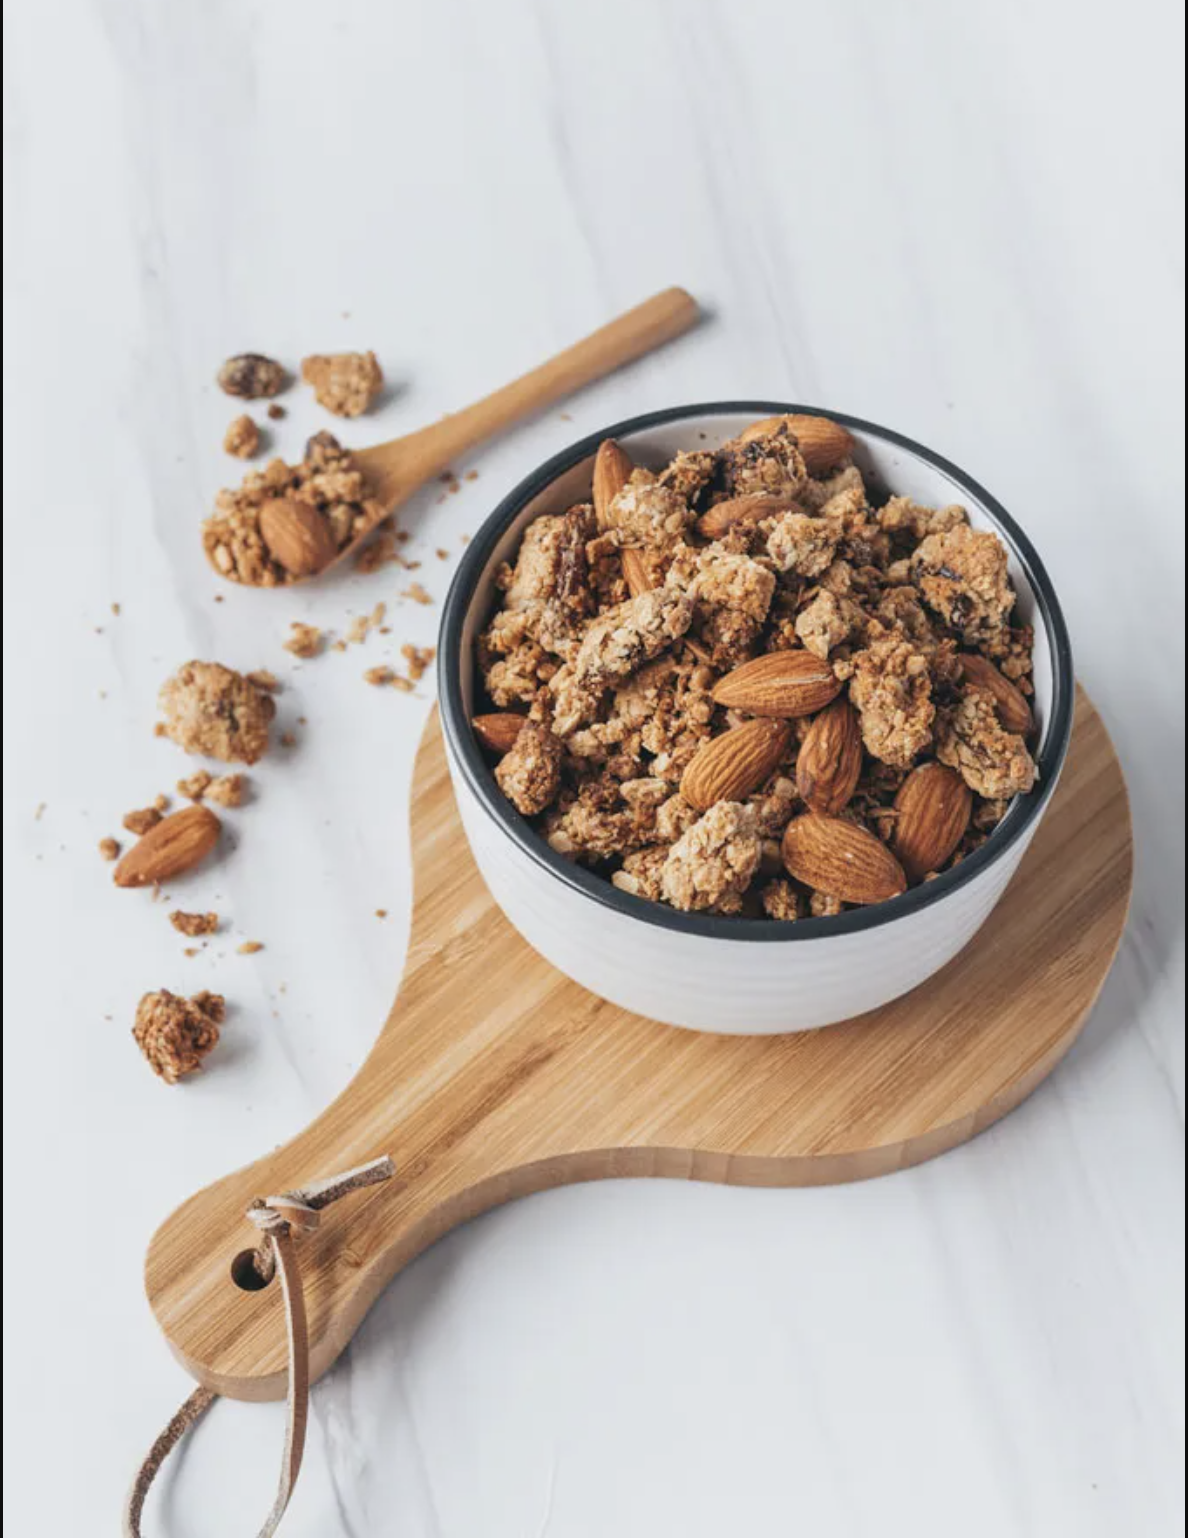
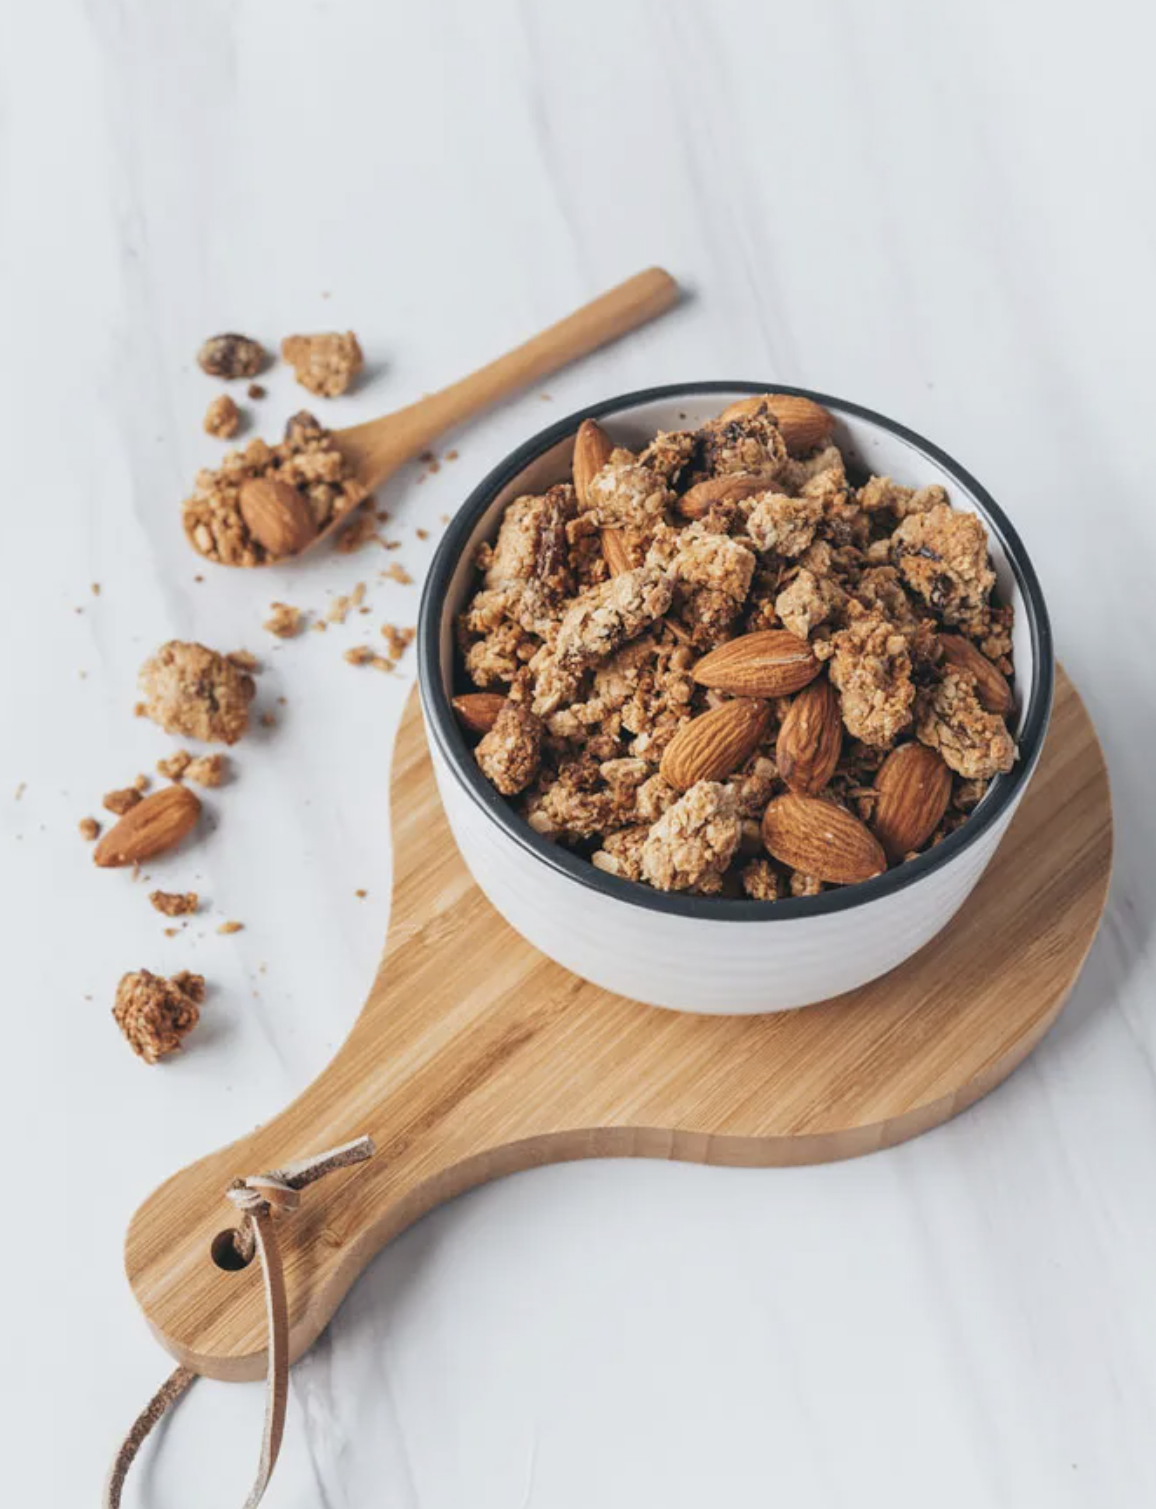
Retouches des images

diff --git a/recette.html b/recette.html
@@ -3,6 +3,7 @@
 <head>
 	<meta charset="utf-8">
 	<meta name="viewport" content="width=device-width, initial-scale=1">
+	<link rel="stylesheet" href="style.css"> 
 	<title></title>
 </head>
 <body>
@@ -20,12 +21,12 @@
 		   </div>
 	</section>
 
-	<section  id="recette-liste">
+	<section  >
 
 		<h1>Découvrez nos recettes !</h1>
 
 
-		<div>
+		<div id="recette-liste">
 			<img src="img/mais.png" width="300px">
 			<img src="img/cuillere.png" width="300px">
 			<img src="img/noix.png" width="300px">
@@ -36,15 +37,36 @@
 	
 	</section>
 
-	<section  id="recetette-details">
+	<section  id="recette-details">
 
-		<div>
+		<div id="recette1">
+
+		<div class="Titre-1">
+			
 			<h1>Recette 1</h1>
-			<img src="img/mais.png" width="500px">
-			<p>Lorem ipsum dolor sit amet, consectetur adipiscing elit. Curabitur placerat pulvinar turpis dignissim tincidunt. Suspendisse ut finibus leo, quis finibus diam. In vitae nisl quis ex sodales finibus. Duis scelerisque tempor porta. Quisque convallis id orci sit amet malesuada. Integer ac purus sed nulla hendrerit mollis id vel lacus. Fusce malesuada efficitur nunc, eu volutpat mi. Aenean id fringilla ex.
+		
+		</div>
+			
+		<div class="box-image">
 
-				Nunc tincidunt eget ex eu sodales. Ut placerat dolor sem, sit amet convallis libero porttitor at. Proin consectetur mollis purus, et molestie leo pharetra eget. Nulla condimentum eget sem vel tristique. Morbi faucibus nibh in pretium cursus. Orci varius natoque penatibus et magnis dis parturient montes, nascetur ridiculus mus. Nunc blandit semper elit, nec suscipit neque gravida et. Aenean tellus ipsum, semper ac enim in, efficitur venenatis libero.
-			</p>
+			<div class="image">
+
+				<img src="img/mais.png" width="400px">
+
+			</div>
+
+			<div class="texte">
+
+				<p>Lorem ipsum dolor sit amet, consectetur adipiscing elit. Curabitur placerat pulvinar turpis dignissim tincidunt. Suspendisse ut finibus leo, quis finibus diam. In vitae nisl quis ex sodales finibus. Duis scelerisque tempor porta. Quisque convallis id orci sit amet malesuada. Integer ac purus sed nulla hendrerit mollis id vel lacus. Fusce malesuada efficitur nunc, eu volutpat mi. Aenean id fringilla ex.
+
+					Nunc tincidunt eget ex eu sodales. Ut placerat dolor sem, sit amet convallis libero porttitor at. Proin consectetur mollis purus, et molestie leo pharetra eget. Nulla condimentum eget sem vel tristique. Morbi faucibus nibh in pretium cursus. Orci varius natoque penatibus et magnis dis parturient montes, nascetur ridiculus mus. Nunc blandit semper elit, nec suscipit neque gravida et. Aenean tellus ipsum, semper ac enim in, efficitur venenatis libero.
+				</p>
+
+			</div>
+
+		</div>
+			
+			
 		</div>
 
 		<div>

diff --git a/style.css b/style.css
@@ -1,0 +1,22 @@
+
+    h1{
+        text-align: center;
+    }
+
+    #recette-liste{
+
+        display: flex;
+        justify-content: space-between;
+    }
+    
+    .recette1{
+        display:flex;
+        flex-direction: column;
+    }
+
+
+    .box-image{
+        display: flex;
+        flex-direction:row;
+    }
+
